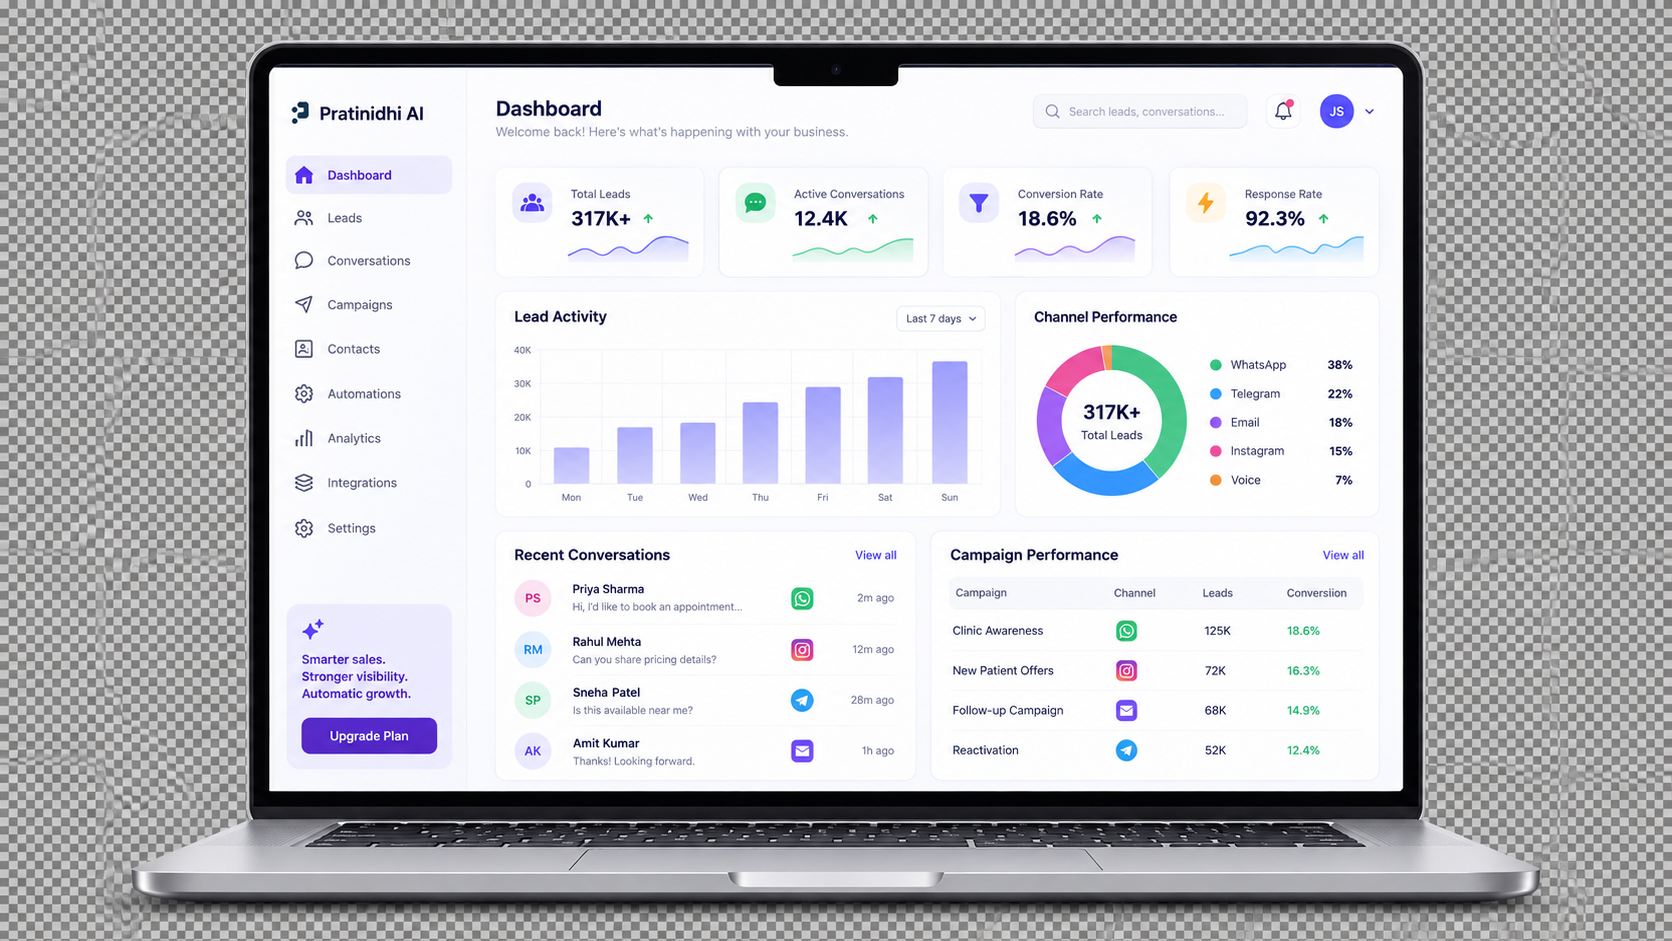
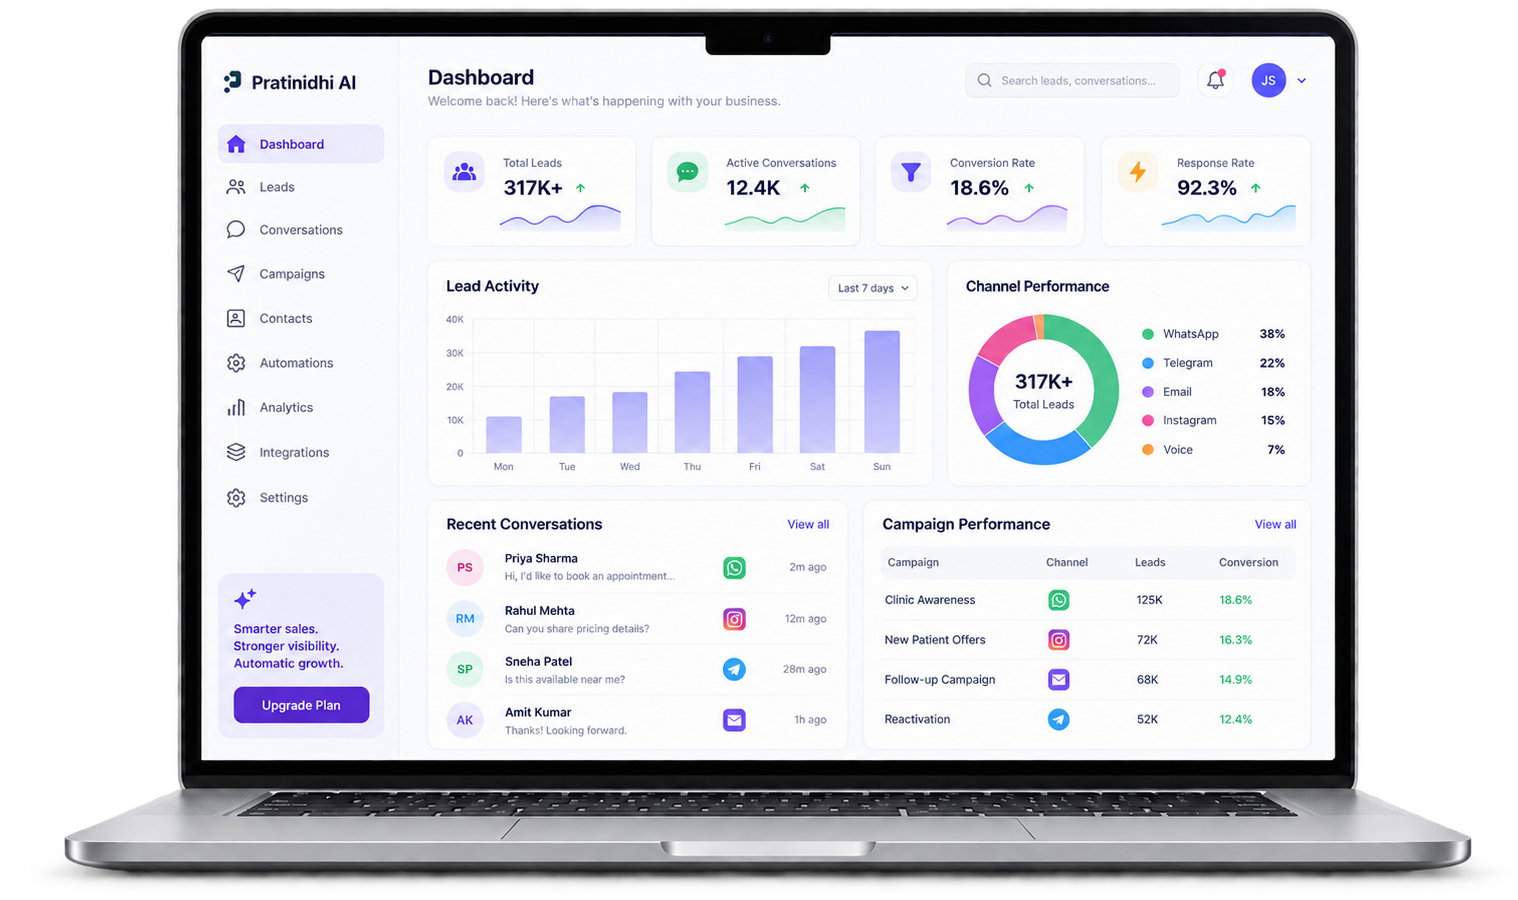
ui

diff --git a/src/components/portfolio/OrchestrixChapter.tsx b/src/components/portfolio/OrchestrixChapter.tsx
@@ -67,7 +67,7 @@ export function OrchestrixChapterBlock() {
         aria-hidden="true"
       />
 
-      <div className="grid gap-12 lg:grid-cols-2 lg:items-start lg:gap-14">
+      <div className="grid gap-12 lg:grid-cols-2 lg:grid-rows-[min-content_min-content] lg:items-start lg:gap-14">
         {/* RIGHT (desktop) — date + heading, placed first for mobile order */}
         <motion.div
           initial={{ opacity: 0, y: 16 }}
@@ -90,54 +90,28 @@ export function OrchestrixChapterBlock() {
 
         {/* LEFT (desktop) — photo + sticky notes, spans both rows */}
         <div className="relative lg:col-start-1 lg:row-start-1 lg:row-span-2">
-          <motion.div
-            initial={{ opacity: 0, y: -8, rotate: -8 }}
-            whileInView={{ opacity: 1, y: 0, rotate: -4 }}
-            viewport={{ once: true, amount: 0.4 }}
-            transition={{ duration: 0.5, delay: 0.1 }}
-            className="mb-3 hidden pl-2 sm:block"
-          >
-            <p className="font-script text-lg leading-[1.15] text-lavender-deep">
-              where ideas
-              <br />
-              turned into
-              <br />
-              real work <span className="text-blush">♡</span>
-            </p>
-            <svg viewBox="0 0 60 50" className="mt-1 h-9 w-11 text-lavender-deep/70" fill="none" aria-hidden="true">
-              <path
-                d="M8 4C6 16 10 26 24 32C34 36 44 34 52 28"
-                stroke="currentColor"
-                strokeWidth="2"
-                strokeLinecap="round"
-                fill="none"
-              />
-              <path d="M40 26L52 28L46 38" stroke="currentColor" strokeWidth="2" strokeLinecap="round" strokeLinejoin="round" fill="none" />
-            </svg>
-          </motion.div>
-
-          <div className="flex flex-col gap-6 lg:flex-row lg:items-start">
+          <div className="flex flex-col gap-6">
             <motion.figure
               initial={{ opacity: 0, y: 18, rotate: -4 }}
               whileInView={{ opacity: 1, y: 0, rotate: -2 }}
               viewport={{ once: true, amount: 0.3 }}
               transition={{ duration: 0.7, delay: 0.15, ease: [0.22, 1, 0.36, 1] }}
-              className="relative mx-auto w-full max-w-[360px] shrink-0 border-[10px] border-paper bg-paper pb-9 shadow-[0_20px_38px_-18px_rgba(20,18,12,0.55)] lg:mx-0 lg:w-[60%]"
+              className="relative mx-auto w-full max-w-[360px] border-[10px] border-paper bg-paper shadow-[0_20px_38px_-18px_rgba(20,18,12,0.55)] lg:mx-0 lg:max-w-none"
             >
               <TapeStrip className="-top-4 left-1/2 -ml-7 bg-lilac/65" />
               <img
                 src={asset('journey-orchestrix.png')}
                 alt="A software engineering workspace with notebook and phone"
-                className="aspect-[4/5] w-full object-cover object-center"
+                className="aspect-[1179/875] w-full object-cover object-center"
                 loading="lazy"
               />
-              <figcaption className="font-script absolute bottom-2 right-3 text-[15px] leading-none text-ink/60">
+              <figcaption className="font-script pt-3 pb-1.5 text-right text-[15px] leading-snug text-ink/60">
                 grateful for the people, the problems <br className="hidden sm:block" /> and the learnings{' '}
                 <span className="text-blush">♡</span>
               </figcaption>
             </motion.figure>
 
-            <div className="grid grid-cols-2 gap-3 lg:flex lg:w-[38%] lg:flex-col lg:gap-4">
+            <div className="grid grid-cols-2 gap-3 lg:grid-cols-4 lg:gap-4">
               <StickyNote
                 title="BUILT"
                 tone="pink"
@@ -167,6 +141,32 @@ export function OrchestrixChapterBlock() {
                 points={['Supportive, kind and', 'incredibly talented']}
               />
             </div>
+
+            <motion.div
+              initial={{ opacity: 0, y: 8, rotate: -8 }}
+              whileInView={{ opacity: 1, y: 0, rotate: -4 }}
+              viewport={{ once: true, amount: 0.4 }}
+              transition={{ duration: 0.5, delay: 0.1 }}
+              className="hidden pl-2 sm:block"
+            >
+              <svg viewBox="0 0 60 50" className="mb-1 h-9 w-11 -scale-y-100 text-lavender-deep/70" fill="none" aria-hidden="true">
+                <path
+                  d="M8 4C6 16 10 26 24 32C34 36 44 34 52 28"
+                  stroke="currentColor"
+                  strokeWidth="2"
+                  strokeLinecap="round"
+                  fill="none"
+                />
+                <path d="M40 26L52 28L46 38" stroke="currentColor" strokeWidth="2" strokeLinecap="round" strokeLinejoin="round" fill="none" />
+              </svg>
+              <p className="font-script text-lg leading-[1.15] text-lavender-deep">
+                where ideas
+                <br />
+                turned into
+                <br />
+                real work <span className="text-blush">♡</span>
+              </p>
+            </motion.div>
           </div>
         </div>
 
@@ -178,7 +178,7 @@ export function OrchestrixChapterBlock() {
           transition={{ duration: 0.6, delay: 0.15 }}
           className="lg:col-start-2 lg:row-start-2"
         >
-          <div className="space-y-4 text-[14.5px] leading-[1.65] text-ink/78 sm:text-[15.5px]">
+          {/* <div className="space-y-4 text-[14.5px] leading-[1.65] text-ink/78 sm:text-[15.5px]">
             <p>
               I'm currently working at Orchestrix Technologies, where I get to build, learn, and solve real problems
               every day.
@@ -192,7 +192,29 @@ export function OrchestrixChapterBlock() {
               Most importantly, I've been surrounded by incredibly supportive and talented people who push me to
               learn, take ownership, and keep growing.
             </p>
-          </div>
+          </div> */}
+
+          <div className="space-y-4 text-[14.5px] leading-[1.65] text-ink/78 sm:text-[15.5px]">
+  <p>
+    I'm currently working at Orchestrix Technologies, building and improving product features, internal tools, and
+    AI-powered systems across the stack.
+  </p>
+
+  <p>
+    I work closely with the team to turn business requirements into production-ready solutions — from frontend
+    experiences and backend APIs to debugging, integrations, and feature improvements.
+  </p>
+
+  <p>
+    Working with Python, Flask/FastAPI, React, TypeScript, databases, and AI technologies, I've learned to take
+    ownership of problems, collaborate closely, and turn ideas into software people can actually use.
+  </p>
+
+  <p>
+    Along the way, I've also gained a stronger understanding of product thinking — balancing technical decisions with
+    user needs, business goals, and the practical realities of shipping and improving software.
+  </p>
+</div>
 
           <p className="font-script mt-6 border-l-2 border-lavender-deep/50 pl-4 text-[22px] italic leading-[1.15] text-ink/70">
             "Same curious me,

diff --git a/src/components/portfolio/CollegeChapter.tsx b/src/components/portfolio/CollegeChapter.tsx
@@ -79,7 +79,7 @@ export function CollegeChapterBlock() {
             className="relative mt-6 ml-3 w-[88%] max-w-[380px] border-[10px] border-paper bg-paper pb-10 shadow-[0_20px_38px_-18px_rgba(20,18,12,0.55)] sm:ml-8"
           >
             <TapeStrip className="-top-5 left-1/2 -ml-8 bg-lilac/65" />
-            <img src={asset('journey-college.png')} alt="Priyanshi Gupta at college convocation" className="aspect-[9/11] w-full object-cover" style={{ objectPosition: 'center 42%' }} />
+            <img src={asset('journey-college.png')} alt="Priyanshi Gupta at college convocation" className="aspect-[9/10] w-full object-cover" style={{ objectPosition: 'center 46%' }} />
             <figcaption className="font-script absolute bottom-2 right-3 text-[18px] leading-none text-ink/65">
               grateful for this chapter ♡
             </figcaption>
@@ -99,36 +99,36 @@ export function CollegeChapterBlock() {
             </p>
             <div className="mt-5 space-y-4 text-[14.5px] leading-[1.62] text-ink/75 sm:text-[15.5px]">
               <p>
-                College taught me much more than computer engineering. I usually found myself taking the lead when it
-                came to subject projects — figuring out what needed to be done, dividing the work, bringing ideas
-                together, and making sure we actually finished what we started.
+                College taught me much more than computer engineering. I usually found myself taking the lead on
+                subject projects, and enjoyed the process behind the work just as much as the output.
               </p>
               <p>
-                Those projects taught me how much I enjoy the process around the work too — turning a loose idea into
-                a plan, collaborating with people, and seeing it through to something finished.
+                Outside of coursework, I liked actually building things — small tools, automations, and half-working
+                prototypes that taught me more about engineering than any syllabus did. Working in teams on these
+                pushed me to communicate clearly, split work sensibly, and stay accountable when things didn't go as
+                planned.
               </p>
               <p>
-                And somewhere in my first year, I also started solving mathematics problems on Photomath for a little
-                extra earning. I ended up guiding 100+ students through mathematical problem-solving and concept
-                clarification. What started as a small side thing quietly taught me how important it is to break down
-                complicated things simply, one clear step at a time.
+                And somewhere in my first year, I also started tutoring on Photomath — a small side hustle that
+                taught me how to break down complicated things simply, one step at a time.
               </p>
             </div>
-            <blockquote className="mt-5 border-t border-lavender-deep/35 pt-3 font-script text-[20px] leading-[1.15] text-ink/75 sm:text-[23px]">
+            <blockquote className="mt-6 border-t border-lavender-deep/35 pt-3 font-script text-[20px] leading-[1.15] text-ink/75 sm:text-[23px]">
               I came to college to become an engineer.
               <br />
               I left knowing I liked building much more than just software.
             </blockquote>
           </div>
 
-          <div className="mt-6 grid gap-4 sm:grid-cols-2">
+          <div className="mt-7 grid gap-4 sm:grid-cols-3">
             <HighlightCard title="PROJECTS" className="-rotate-1 bg-[#F4DCE1]/70">
               usually the one turning ideas into finished work
             </HighlightCard>
-            <HighlightCard title="PHOTOMATH" className="-rotate-1 bg-[#EEE4F7]">
-              <span className="font-serif text-[19px] leading-none text-lavender-deep">100+ students</span>
-              <br />
-              first-year side quest in making maths clearer
+            <HighlightCard title="PLANNING" className="rotate-1 bg-[#EEE4F7]">
+              turning a loose idea into an actual plan
+            </HighlightCard>
+            <HighlightCard title="TEAMWORK" className="-rotate-1 bg-[#F7F0D6]">
+              collaborating with people to see it through
             </HighlightCard>
           </div>
         </motion.section>

diff --git a/src/components/portfolio/PratinidhiCase.tsx b/src/components/portfolio/PratinidhiCase.tsx
@@ -35,7 +35,7 @@ export function PratinidhiCase() {
             <p className="mt-7 text-[10px] font-bold uppercase tracking-[0.23em] text-[#d6ddba] sm:text-[11px]">AI agent &amp; CRM workflow platform</p>
             <div className="mt-6 max-w-[25rem] space-y-5 text-[14px] leading-7 text-paper/74 sm:text-[15px]">
               <p>Built and shipped an AI-powered CRM and customer engagement automation platform using Python/Flask, React, TypeScript, Firebase and LLM APIs. The platform brings AI agent workflows, lead intelligence, RAG-powered responses and omnichannel conversations into one workspace.</p>
-              <p>Worked closely with the founding team on end-to-end product delivery — translating business requirements into production-ready frontend and backend features, while also contributing to product decisions, customer-facing problem solving and integrations.</p>
+              <p>Worked closely with the founding team on end-to-end product delivery, translating business requirements into production-ready frontend and backend features, while also contributing to product decisions, customer-facing problem solving and integrations.</p>
             </div>
             <div className="mt-8 flex max-w-md flex-wrap gap-2">
               {['Python / Flask', 'React / TypeScript', 'Firebase', 'LLM APIs', 'RAG', 'Webhooks'].map((tech) => <span key={tech} className="rounded-full border border-paper/15 bg-paper/[0.055] px-3 py-1.5 text-[10px] font-medium text-paper/70 backdrop-blur-sm">{tech}</span>)}
@@ -43,9 +43,9 @@ export function PratinidhiCase() {
           </motion.div>
 
           <motion.div initial={{ opacity: 0, x: 28 }} whileInView={{ opacity: 1, x: 0 }} viewport={{ once: true, amount: 0.25 }} transition={{ duration: 0.8, delay: 0.1 }} className="min-w-0">
-            <div className="relative mx-auto max-w-[720px] rounded-lg bg-white/95 p-3 xl:mx-0">
+            <div className="relative mx-auto max-w-[720px] xl:mx-0">
               <div className="absolute inset-x-[10%] bottom-[3%] h-11 rounded-[100%] bg-black/45 blur-xl" />
-              <img src={pratinidhi.screenshot} alt={pratinidhi.screenshotAlt} className="relative z-10 block w-full rounded" loading="lazy" />
+              <img src={pratinidhi.screenshot} alt={pratinidhi.screenshotAlt} className="relative z-10 block w-full" loading="lazy" />
             </div>
             <div className="relative z-20 mx-auto mt-5 grid max-w-[720px] grid-cols-1 gap-4 sm:grid-cols-2 lg:grid-cols-4 lg:gap-4 xl:mx-0">
               {notes.map((note, index) => (

diff --git a/src/components/portfolio/InternshipChapter.tsx b/src/components/portfolio/InternshipChapter.tsx
@@ -29,12 +29,9 @@ function InternshipCertificate() {
       transition={{ duration: 0.7, delay: 0.12, ease: [0.22, 1, 0.36, 1] }}
       className="relative mx-auto w-full max-w-[480px] shadow-[0_24px_48px_-20px_rgba(20,18,12,0.5)]"
     >
-      <div className="aspect-[1.4/1] overflow-hidden bg-white">
+      <div className="aspect-[1.1/1] overflow-hidden bg-white">
         <img src={asset('journey-saksoft-certificate.png')} alt="Saksoft 360Logica Internship Certificate" className="h-full w-full object-cover" style={{ objectPosition: 'center 15%' }} loading="lazy" />
       </div>
-      <figcaption className="font-script mt-3 text-center text-[18px] leading-none text-ink/65">
-        turning how things break into how to build them better ♡
-      </figcaption>
     </motion.figure>
   )
 }
@@ -66,15 +63,6 @@ export function InternshipChapterBlock() {
             <ArrowDoodle className="h-7 w-12 rotate-[10deg]" />
           </motion.div>
           <InternshipCertificate />
-          <motion.p
-            initial={{ opacity: 0 }}
-            whileInView={{ opacity: 1 }}
-            viewport={{ once: true, amount: 0.4 }}
-            transition={{ duration: 0.5, delay: 0.55 }}
-            className="font-script mt-4 text-right text-[18px] leading-none text-ink/60"
-          >
-            real experience, real learnings <span className="text-lavender-deep">✦</span>
-          </motion.p>
         </div>
 
         <motion.div

diff --git a/src/components/portfolio/MeetSection.tsx b/src/components/portfolio/MeetSection.tsx
@@ -96,7 +96,7 @@ export function MeetSection() {
             <div className="mt-4 space-y-3.5 text-[16.5px] leading-relaxed text-ink/80">
               <p>I&apos;m a software engineer who likes working where engineering, AI and product overlap.</p>
               <p>
-                With Python, Flask/FastAPI, React and TypeScript, I build across the stack — from frontend
+                With Python, Flask/FastAPI, React and TypeScript, I build across the stack, from frontend
                 experiences and backend APIs to AI-powered systems, RAG workflows and the infrastructure that
                 keeps them running. I enjoy taking an idea into something people can actually use.
               </p>

diff --git a/src/App.tsx b/src/App.tsx
@@ -26,11 +26,11 @@ function App() {
         <Hero />
         <WavyDivider topColor={c.olive} bottomColor={c.paper} />
         <MeetSection />
-        <WavyDivider topColor={c.paper} bottomColor={c.lavender} />
-        <JourneyTimeline />
         <PratinidhiCase />
         <EducadoCase />
-        <WavyDivider topColor={c.paper} bottomColor={c.mist} />
+        <WavyDivider topColor={c.paper} bottomColor={c.lavender} />
+        <JourneyTimeline />
+        <WavyDivider topColor={c.lavender} bottomColor={c.mist} />
         <DoesntFit />
         <WavyDivider topColor={c.mist} bottomColor={c.olive} />
         <Final />

diff --git a/src/data/content.ts b/src/data/content.ts
@@ -18,7 +18,7 @@ export const heroCopy = {
   introMid: ', ',
   introItalicTwo: 'building things',
   introAfter:
-    ", and getting involved wherever there's something interesting to learn. I enjoy moving between code, ideas, products and people — basically, I don't really believe in staying inside one box.",
+    ", and getting involved wherever there's something interesting to learn. I enjoy moving between code, ideas, products and people, basically, I don't really believe in staying inside one box.",
 }
 
 export const navLinks = [
